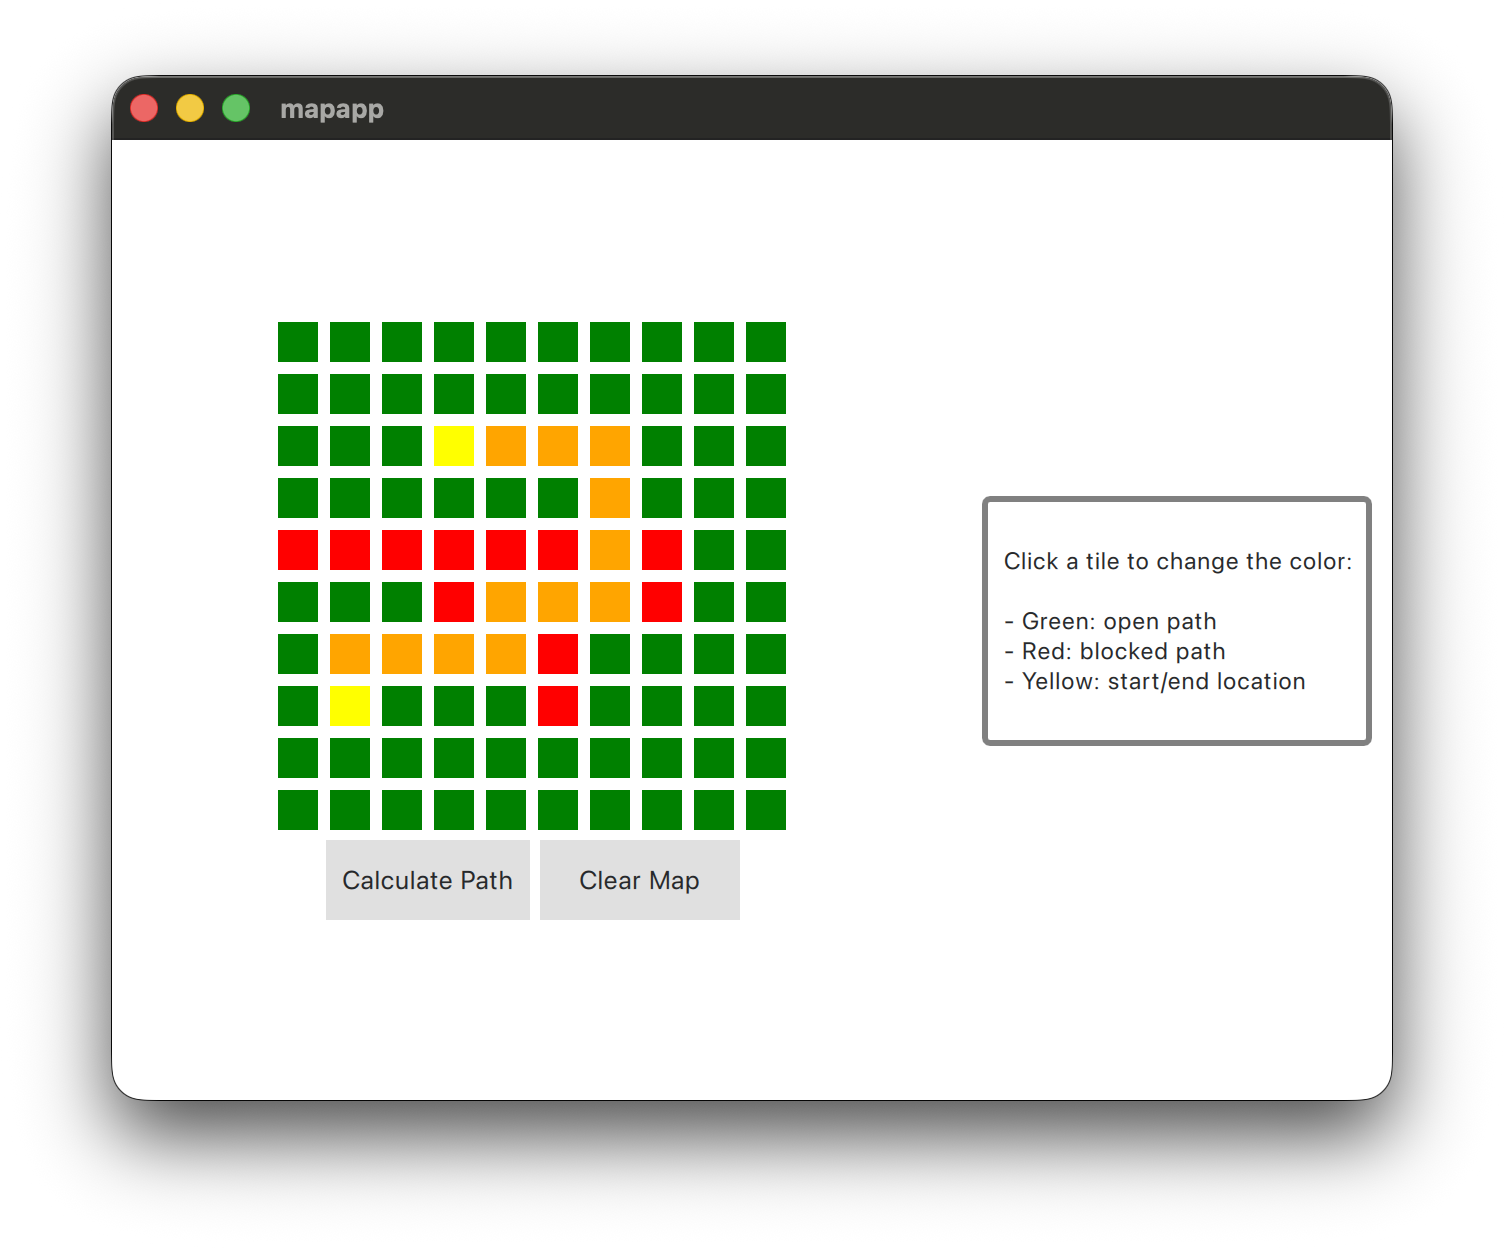
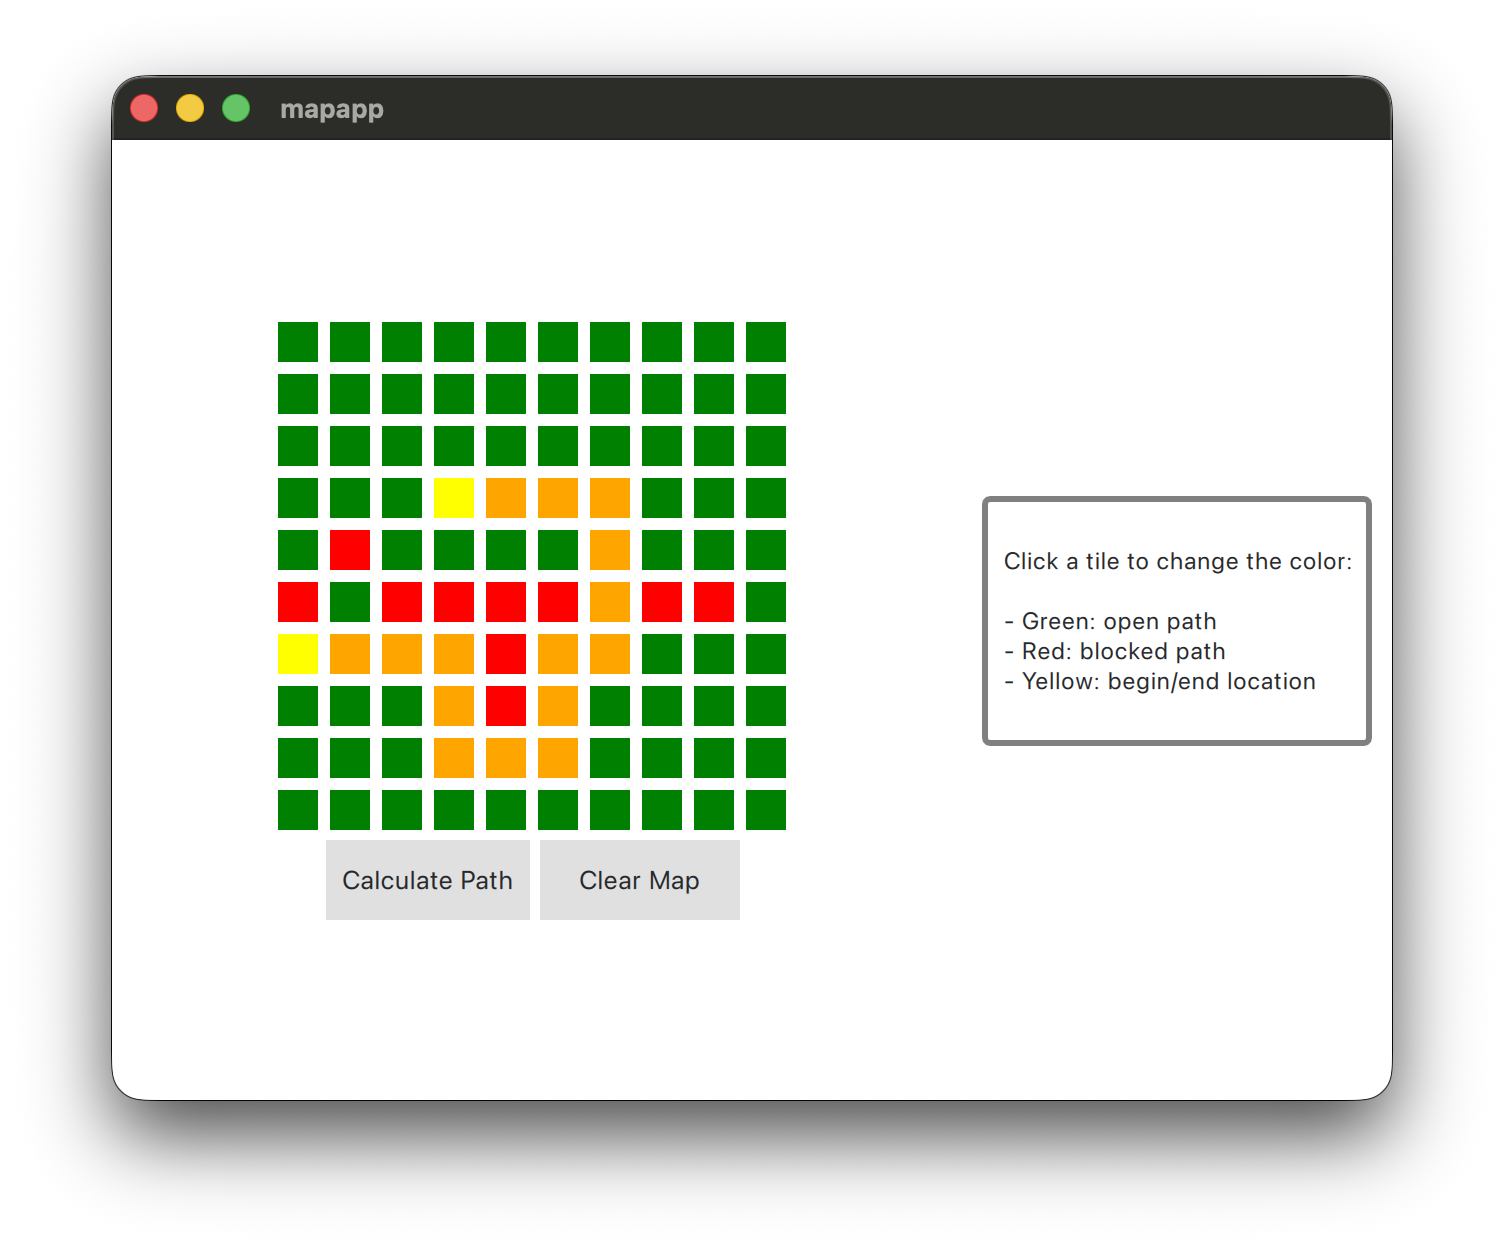
Fix "start" wording to "begin"

Changed region(s): [[0.25, 0.3438, 0.5, 0.625], [0.1875, 0.4062, 0.25, 0.5938], [0.7188, 0.5312, 0.875, 0.5625]]

diff --git a/main.qml b/main.qml
@@ -75,7 +75,7 @@ Window {
 
             Label {
                 id: label
-                text: "\nClick a tile to change the color:\n\n- Green: open path\n- Red: blocked path\n- Yellow: start/end location\n"
+                text: "\nClick a tile to change the color:\n\n- Green: open path\n- Red: blocked path\n- Yellow: begin/end location\n"
                 anchors.centerIn: parent
                 font.pointSize: 12
             }
